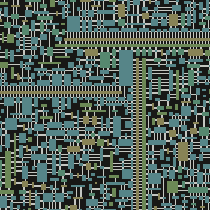
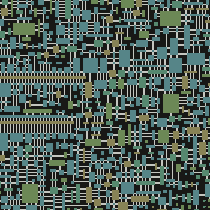
rand now used at top level instead of collapse

diff --git a/src/wave.rs b/src/wave.rs
@@ -4,6 +4,7 @@ use ndarray::Array;
 use ndarray::Dimension;
 use ndarray::IntoDimension;
 use ndarray::NdIndex;
+use rand::RngCore;
 
 use crate::bitset::BitSlice;
 use crate::tile::Tile;
@@ -148,7 +149,9 @@ where
     }
 
     /// Collapse the [`Wave`].
-    pub fn collapse(&mut self) {
+    pub fn collapse<R>(&mut self, rng: &mut R) 
+    where R: RngCore + ?Sized
+    {
         for iter in 0.. {
             let [(_min, min_idx), (max, _max_idx)] = self.get_entropy();
             if max < 2 {
@@ -157,7 +160,7 @@ where
 
             let wt_min = &mut self.wave[min_idx];
 
-            let next = wt_min.collapse(iter);
+            let next = wt_min.collapse(rng, iter);
             self.work[0].extend(next.into_iter().flat_map(|axis| axis.into_iter()).flatten()); // all distance 1
             if self.propagate(iter, min_idx).is_err() {
                 self.rollback(iter);

diff --git a/src/wavetile.rs b/src/wavetile.rs
@@ -2,6 +2,7 @@ use std::array::from_fn;
 use std::fmt::Debug;
 
 use rand::Rng;
+use rand::RngCore;
 
 use crate::bitset::BitSet;
 use crate::bitset::BitSlice;
@@ -78,12 +79,13 @@ where
     }
 
     /// Collapses a `WaveTile` to one of its possible tiles, at random.
-    pub fn collapse(&mut self, iter: usize) -> NeighborWaveTiles<T, N> {
+    pub fn collapse<R>(&mut self, rng: &mut R, iter: usize) -> NeighborWaveTiles<T, N> 
+        where R: RngCore + ?Sized
+    {
         assert!(self.entropy > 1, "called collapse on a collapsed WaveTile!");
 
         let n = self.tiles.len();
 
-        let mut rng = rand::thread_rng();
         let idx = rng.gen_range(self.start_index..n);
 
         self.filtered_tile_indices.push((iter, n - 1));

diff --git a/examples/image/main.rs b/examples/image/main.rs
@@ -5,6 +5,7 @@ use std::time::SystemTime;
 use image::ImageBuffer;
 use ndarray::Ix2;
 
+use wfc::rand;
 use wfc::impls::image::ImageParams;
 use wfc::traits::Flips;
 use wfc::traits::Recover;
@@ -29,9 +30,10 @@ fn main() {
     tileset.with_rots().with_flips();
 
     let mut wave = tileset.wave(Ix2(70, 70));
+    let mut rng = rand::thread_rng();
 
     let t0 = SystemTime::now();
-    wave.collapse();
+    wave.collapse(&mut rng);
     let t1 = SystemTime::now();
 
     let image: ImageBuffer<_, _> = wave.recover();

diff --git a/examples/tiles/main.rs b/examples/tiles/main.rs
@@ -6,6 +6,7 @@ use image::ImageBuffer;
 use image::Pixel;
 use ndarray::Ix2;
 
+use wfc::rand;
 use wfc::data::TileSet;
 use wfc::traits::{Flips, Recover, Rotations};
 
@@ -39,8 +40,10 @@ fn main() {
     tileset.with_rots().with_flips();
     let mut wave = tileset.wave(Ix2(100, 100));
 
+    let mut rng = rand::thread_rng();
+
     let t0 = SystemTime::now();
-    wave.collapse();
+    wave.collapse(&mut rng);
     let t1 = SystemTime::now();
 
     println!("collapsed in {:?}", t1.duration_since(t0).unwrap());

diff --git a/src/lib.rs b/src/lib.rs
@@ -12,6 +12,9 @@ mod tile;
 pub mod wave;
 mod wavetile;
 
+// re-export rand so downstream crates don't have to think as hard about matching `wfc`'s version
+pub use rand;
+
 pub use data::TileSet;
 pub use traits::Flips;
 pub use traits::Recover;
